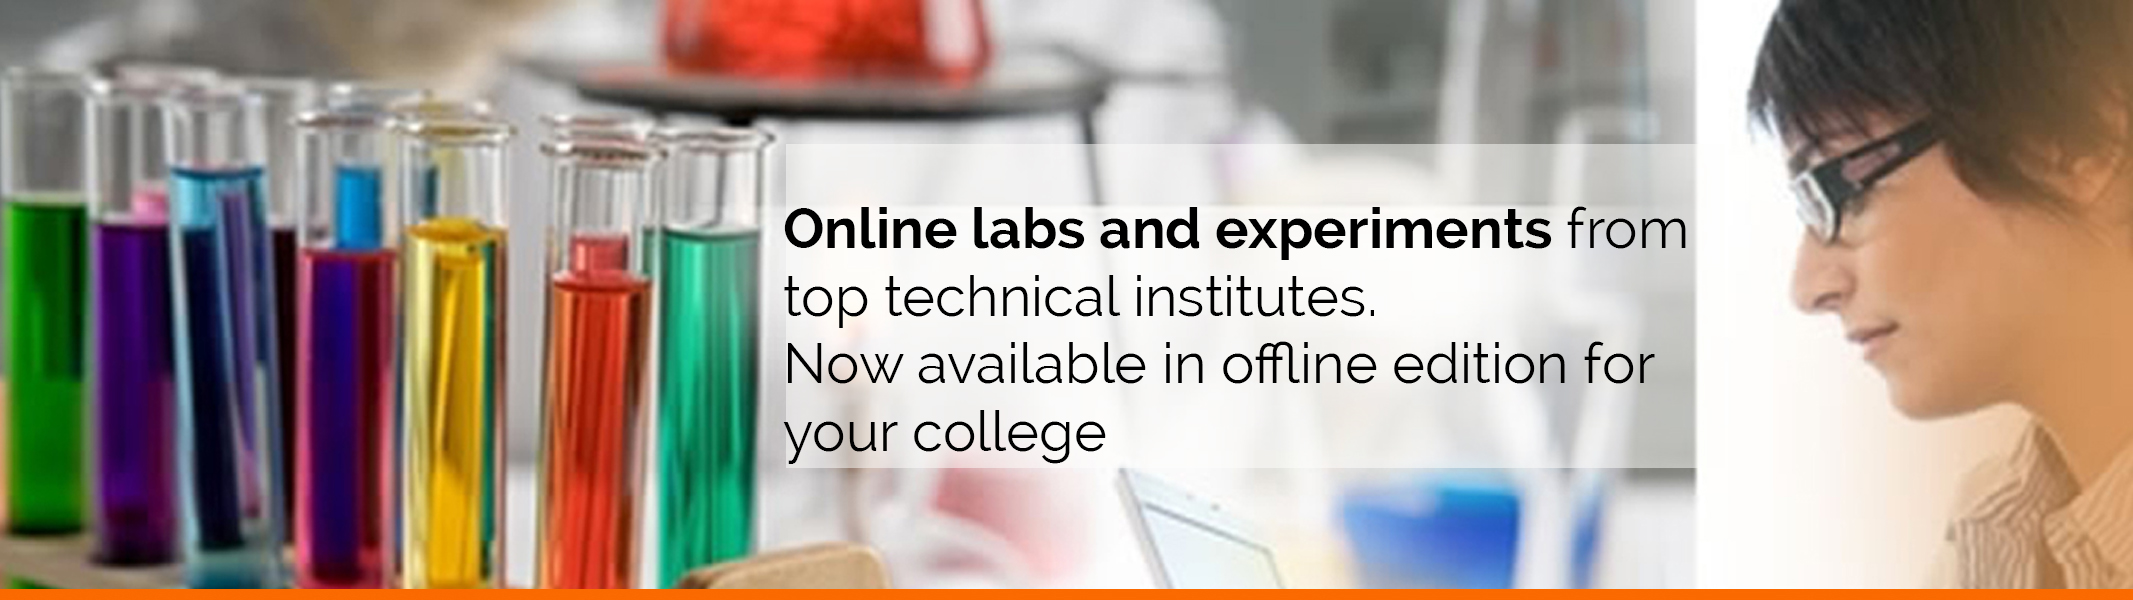
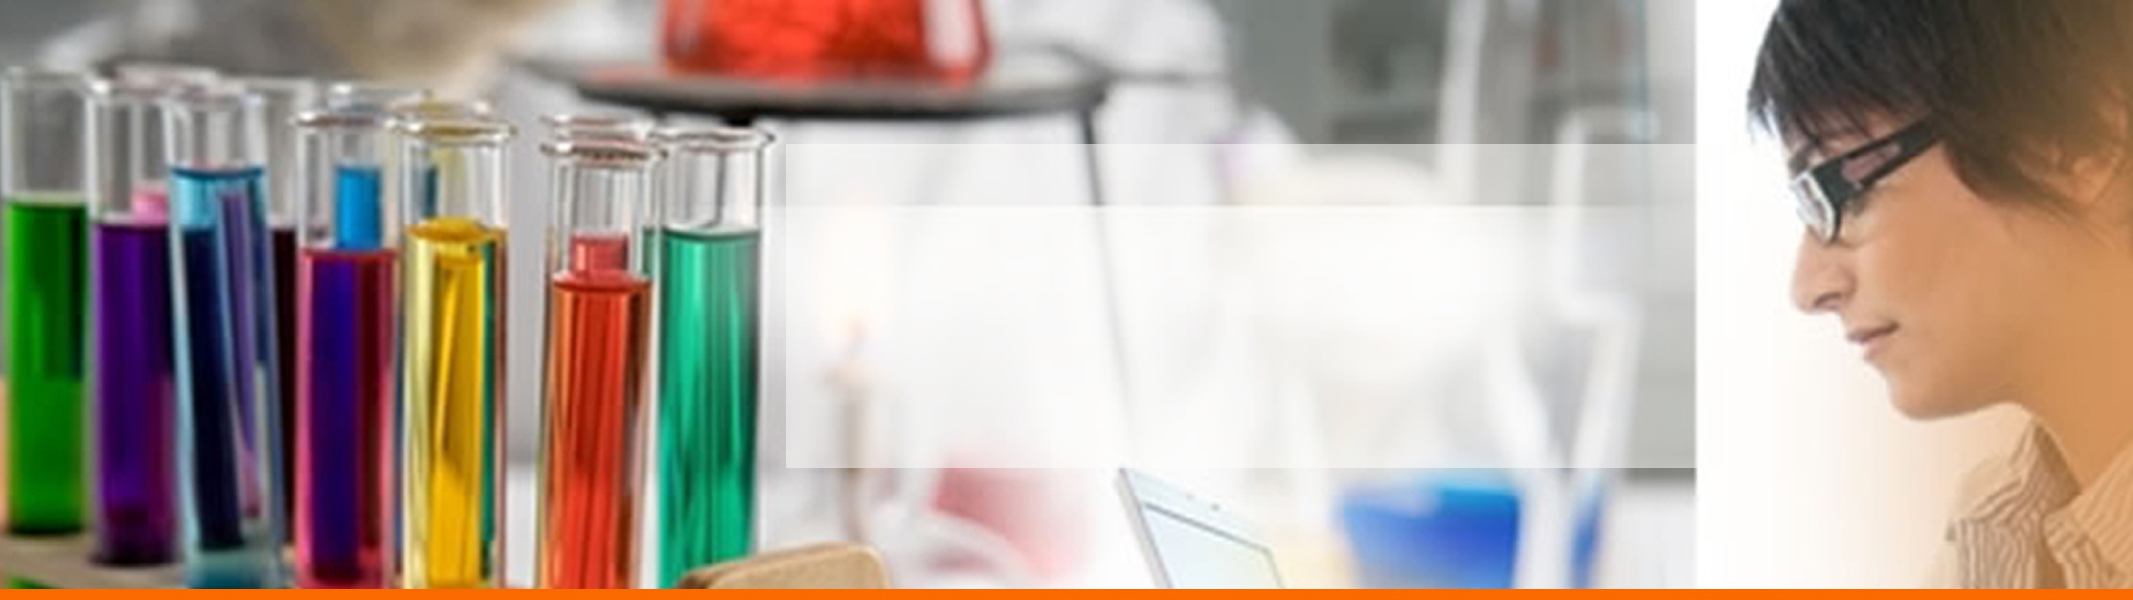
adding css and slider

diff --git a/lms/templates/index.html b/lms/templates/index.html
@@ -27,10 +27,10 @@ from openedx.core.djangolib.markup import HTML, Text
                 <div class="item active" style="background-image: url(${static.url("images/slider/bg1.jpg")}">
                     <div class="container">
                         <div class="row slide-margin">
-                            <div class="col-sm-12">
+			<div class="col-md-4"></div>
+                            <div class="col-md-6">
                                 <div class="carousel-content">
-                                    <h1 class="animation animated-item-1" style="font-color:Black"><b>Online labs and experiments</b> from <br>top techincal institutes 
-Now available in <a href="http://54.215.242.94:5959/college-cloud-edition/">offline edition</a> for your college</h1>
+                                    <h1 class="animation animated-item-1" style="font-color:Black"><b>Online labs and experiments</b> from top techincal institutes Now available in <a href="http://54.215.242.94:5959/college-cloud-edition/">offline edition</a> for your college</h1>
                                     <!--h2 class="animation animated-item-2">Accusantium doloremque laudantium totam rem aperiam, eaque ipsa...</h2-->
                                     <!--a class="btn-slide animation animated-item-3" href="#">Read More</a-->
                                 </div>

diff --git a/lms/static/css/main.css b/lms/static/css/main.css
@@ -34,7 +34,8 @@ color:#2c99ce;
 
 h1{
   font-size: 36px;
-  color:#fff;
+  /*color:#fff;*/
+  color:Black;
 }
 
 h2{
